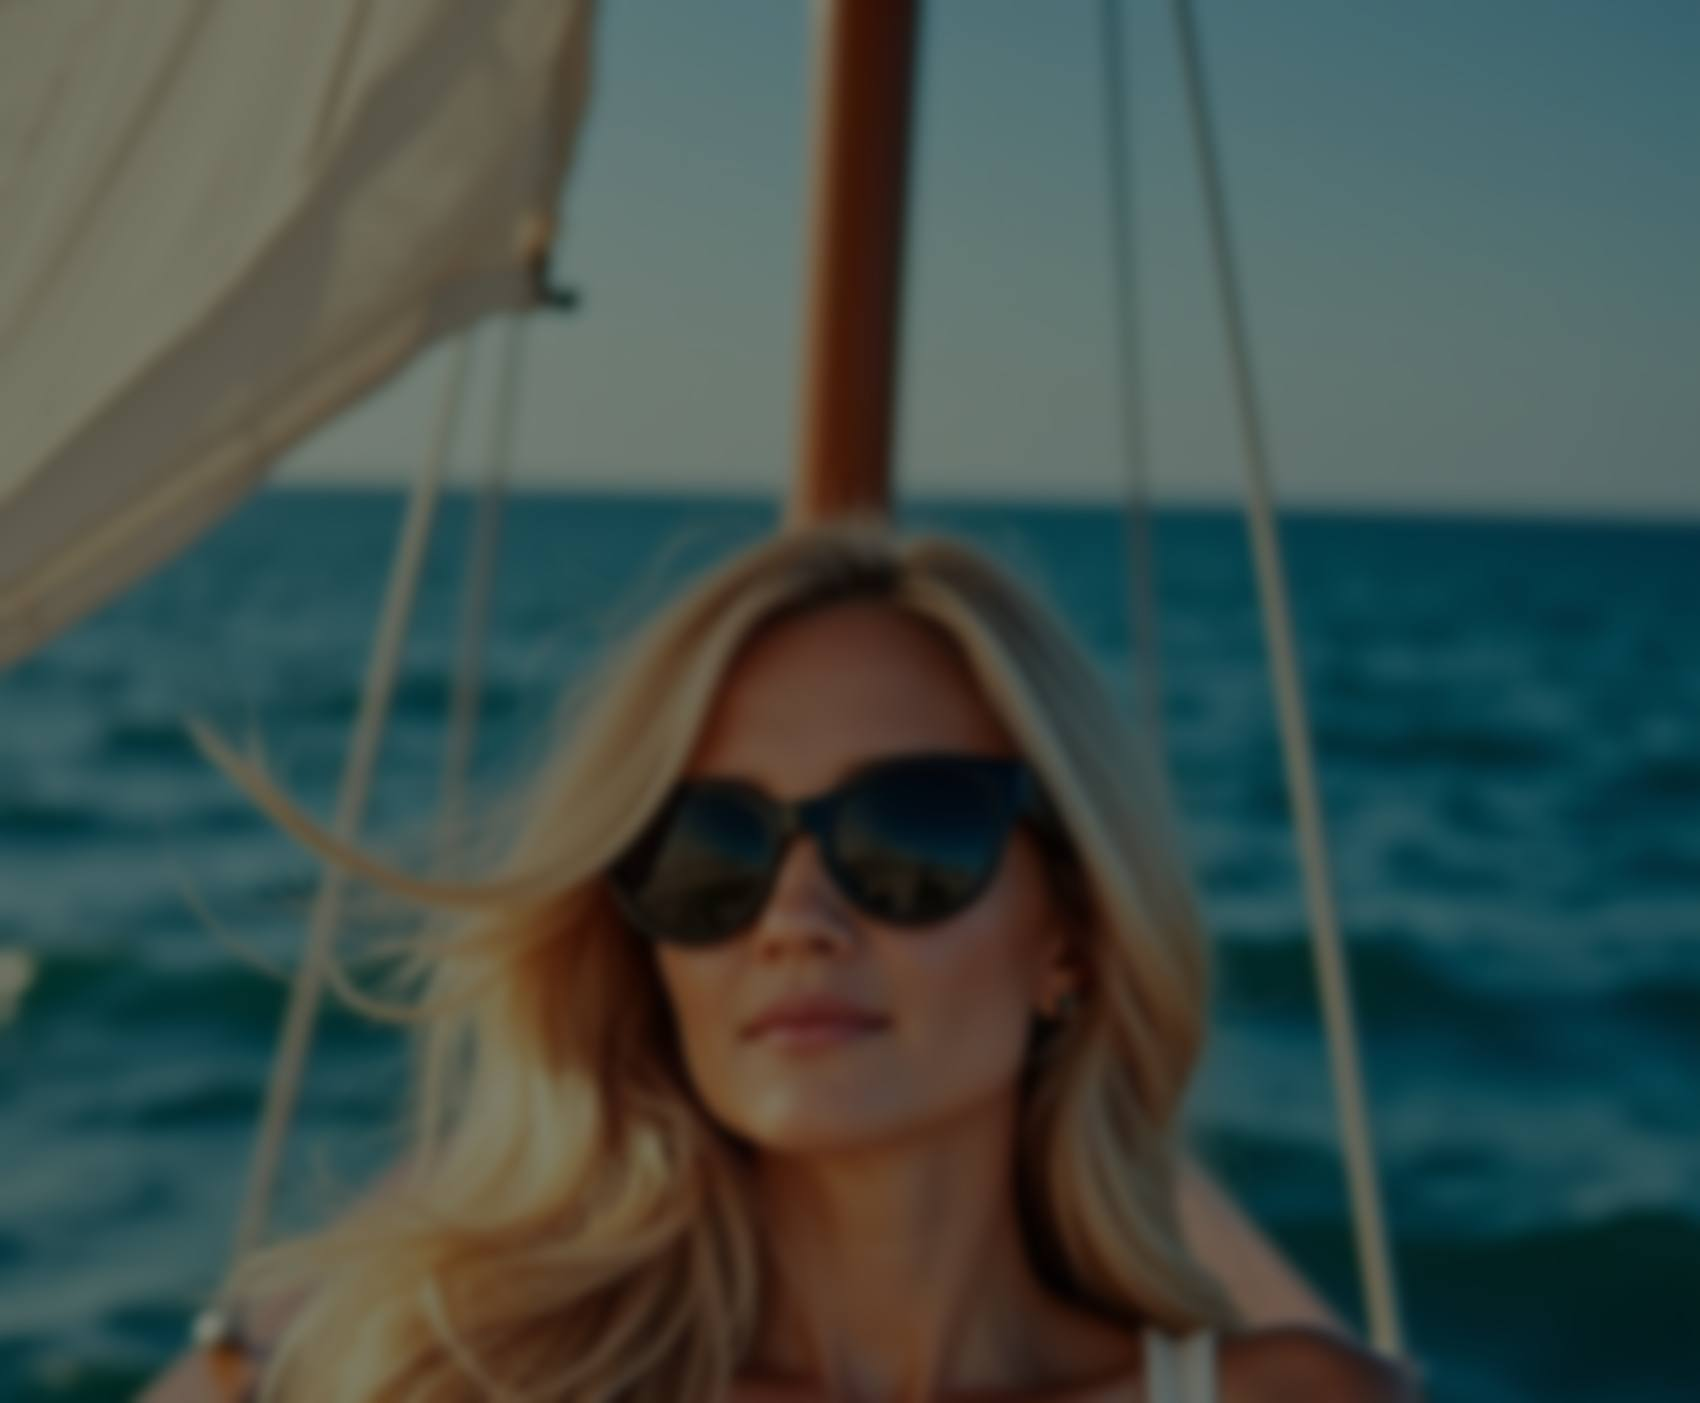
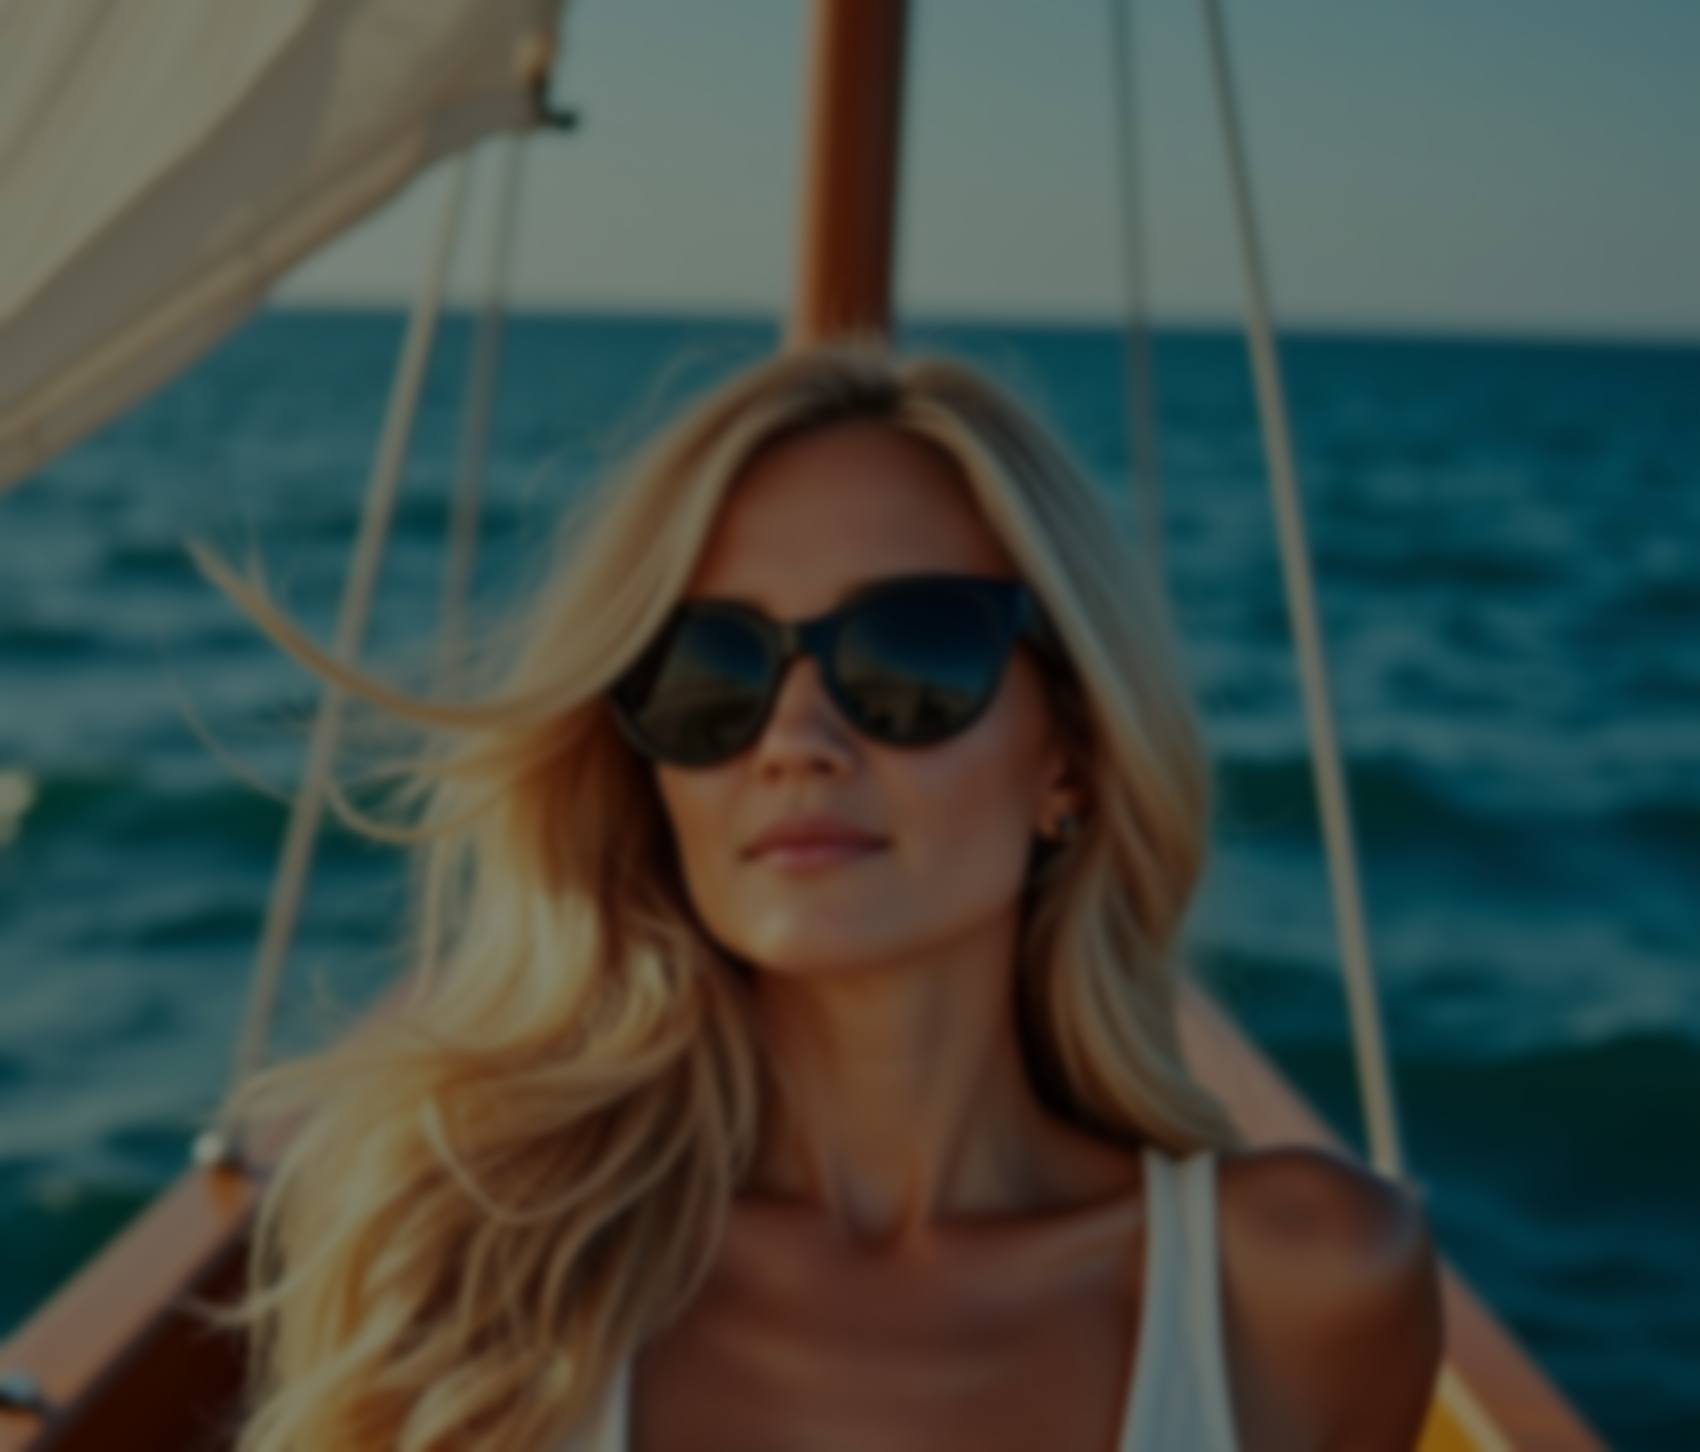
Landing: face-forward crop on styles bg (matches Dre's reference)
Pre-crop the sailboat source tight on the face/sunglasses region and
position at center 20% so her face sits prominently above the "23
dimensions" heading, with sail + ocean down the sides. This is the look
Dre wanted.

Claude-Session: https://claude.ai/code/session_0127dVQwypx6sSmWdNov8T3s

diff --git a/alterego-v62/public/index.html b/alterego-v62/public/index.html
@@ -89,7 +89,7 @@
   .styles { position:relative; max-width:1340px; margin:0 auto; padding:40px 44px 130px; }
   /* darkened portrait behind the style browser, feathered into black */
   .styles::before { content:""; position:absolute; inset:0; z-index:0; pointer-events:none;
-    background:url('/images/bg-styles.jpg') center 35% / cover no-repeat; opacity:0.5;
+    background:url('/images/bg-styles.jpg') center 20% / cover no-repeat; opacity:0.55;
     -webkit-mask:linear-gradient(to bottom, transparent, #000 16%, #000 70%, transparent);
             mask:linear-gradient(to bottom, transparent, #000 16%, #000 70%, transparent); }
   .styles > * { position:relative; z-index:1; }

diff --git a/public/index.html b/public/index.html
@@ -89,7 +89,7 @@
   .styles { position:relative; max-width:1340px; margin:0 auto; padding:40px 44px 130px; }
   /* darkened portrait behind the style browser, feathered into black */
   .styles::before { content:""; position:absolute; inset:0; z-index:0; pointer-events:none;
-    background:url('/images/bg-styles.jpg') center 35% / cover no-repeat; opacity:0.5;
+    background:url('/images/bg-styles.jpg') center 20% / cover no-repeat; opacity:0.55;
     -webkit-mask:linear-gradient(to bottom, transparent, #000 16%, #000 70%, transparent);
             mask:linear-gradient(to bottom, transparent, #000 16%, #000 70%, transparent); }
   .styles > * { position:relative; z-index:1; }
